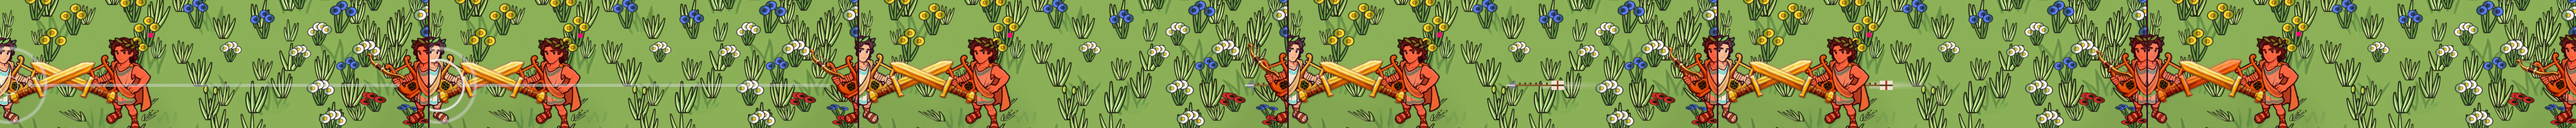
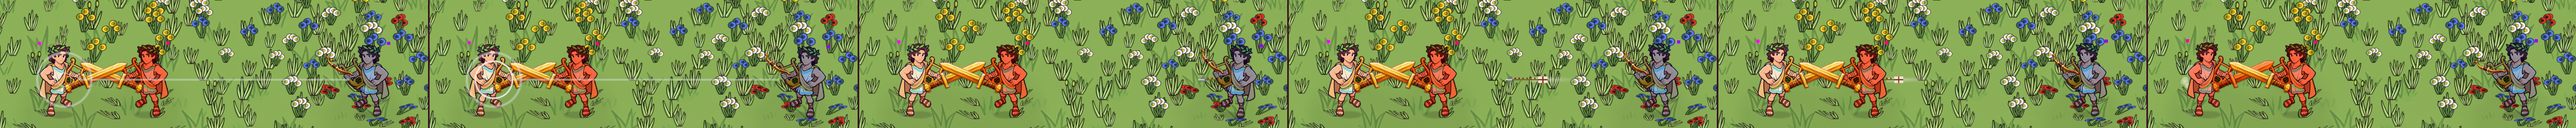
C-036: снимки лент — замах кирки и натяжение лука видны
work/screens/C-036_pick.png (3860x560, Times 42,26–42,92 s) и C-036_bow.png (6620x330,
44,50–45,30 s) — --anim-shots, окно 1920x1080, скрытый стол. Каждый кадр просмотрен.
Карточка: «Место остановки» актуализирована. По H2 reviewer: parity-тест витрины есть —
«Витрина ↔ RemoteAction (паритет)» в C036ActionTests.cs (reviewer искал CompareShowcase).

diff --git a/work/tasks/C-036.md b/work/tasks/C-036.md
@@ -68,17 +68,24 @@ tools\shots.ps1 <сцены C-036>
   assert'ы Action (round-trip, дельта-бит, added).
 
 ## Место остановки
-- Код готов и закоммичен (`538b308`, запушена): кодек (`Snapshot.cs` — `Action`, `EncodeAction`, квант), сервер
-  (`NetServer.Snapshots.cs` — `ActionOf`/дельта-бит/писатели), протокол 37, клиент
-  (`NetAnimation.cs` — `RemoteAction`), тесты `C036ActionTests` (3 Passed) + голдены
-  зелёные (c036_t4/c036_g3: 32 Passed). Мутации: М1 квант 16→1 — кирка **красная**;
-  М2 без клампинга — кодек **красный**; М3 без дельта-сравнения — оба сетевых **красные**
-  (c036_m1/m2/m3.txt). Витрина снимков: `AnimShowcase.Action.cs` (ряд y=−32, кирка —
-  окна по кванту 16, лук — сила PowerQ8>>2; ленты `C-036_pick` с 42,26 с, `C-036_bow`
-  с 44,50 с) — сборка клиента с дымом код 0 (c036_client2.txt). `-All` идёт фоном
-  (c036_ci_all.txt, shell sh_1efd1e15b0017cz70pH1iugP32). Дальше: `-All` зелёный →
-  снять ленты `--anim-shots` (run_hidden), посмотреть кадры → коммит → reviewer →
-  слияние (ожидаемый конфликт протокола с C-035: брать 37).
+- Код готов и закоммичен: `538b308` (кодек `Snapshot.cs` — `Action`/`EncodeAction`/квант, сервер
+  `NetServer.Snapshots.cs` — `ActionOf`/дельта-бит/писатели, протокол 37, клиент `NetAnimation.cs` —
+  `RemoteAction`, тесты `C036ActionTests`) + витрина `004853b` (`AnimShowcase.Action.cs`, ряд y=−32,
+  ленты `C-036_pick` 42,26 с, `C-036_bow` 44,50 с) + правка компиляции Unity (CS1503: `held` в
+  `RemoteAction` параметром, кирка витрины `Items.StonePickaxe`) — докоммичена reviewer в `d7bce13`.
+  База `b6767e4`. Всё запушено.
+- CI: `-All` — Passed 1396, Failed 0 (`c036_ci_all.txt`, exit 3 — штатно). Сборка клиента
+  `-Smoke -HostSmoke` — **код 0** (`c036_client3.txt`; `c036_client2` была красной из-за CS1503).
+  Мутации М1 (квант 16→8), М2 (сдвиг 2→3), М3 (не обнулять при PhaseMove) — красные, откатаны.
+- Проверка (П): **Принято** reviewer в `d7bce13` (его мутации П-А/П-Б/П-В — красные). H1 закрыт
+  (правка компиляции в `d7bce13`). H2 снимается: parity-тест витрины **есть** — «Витрина ↔ RemoteAction
+  (паритет)» в `C036ActionTests.cs` (reviewer искал английское имя `CompareShowcase`). H3 закрыт:
+  снимки сняты.
+- Снимки: `work/screens/C-036_pick.png` (замах кирки, вспышка удара, возврат) и
+  `work/screens/C-036_bow.png` (поднятие лука, натяжение, подсветка врага, попадание) — `--anim-shots`,
+  окно 1920×1080, скрытый стол; каждый кадр просмотрен.
+- Слияние в main: ожидаемый конфликт протокола — брать **37**; сейв 16. После слияния — журналы
+  (`status.md`, `next.md`, `modules/net.md`, `codemap.md`) + чистка копии.
 
 ## Журнал
 - 18.11: кодек+сервер+клиент+тесты; `C036ActionTests` 3 Passed; голдены обновлены — зелёные;
